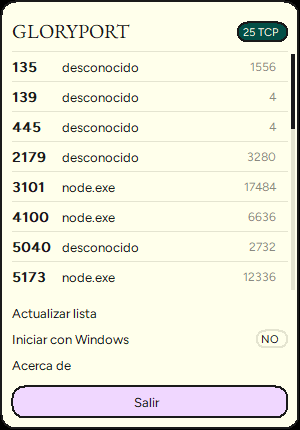
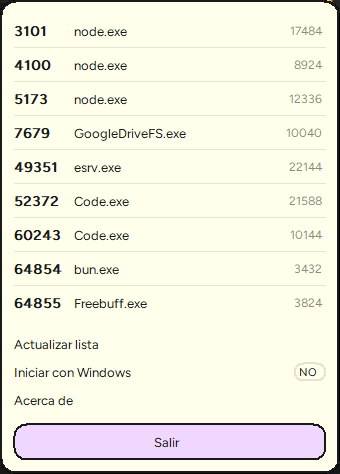
docs: bloque 128A-10 (popup amplio, filtro solo-aplicaciones, evidencia 21/21)

diff --git a/docs/arquitectura.md b/docs/arquitectura.md
@@ -1,6 +1,6 @@
 # GLORYPORT — Arquitectura y plan
 
-Fecha: 2026-08-12 · Estado: v1.1 implementada (popup Wispr Flow) · Fuente de decisión
+Fecha: 2026-08-12 · Estado: v1.2 implementada (popup amplio + filtro de aplicaciones) · Fuente de decisión
 canónica: este documento.
 
 ## 1. Contexto y objetivo
@@ -79,6 +79,8 @@ sequenceDiagram
     U->>T: clic derecho/izquierdo en icono
     T->>P: scan_listeners()
     P-->>T: Vec<PortInfo> ordenado (1 llamada Win32)
+    T->>P: attach_process_names() + solo_aplicaciones()
+    P-->>T: filas filtradas (aplicaciones de usuario)
     T->>M: show(puertos, autostart)
     M-->>T: Action elegida
     T->>K: kill_pid(pid) / toggle autostart / salir
@@ -98,10 +100,20 @@ rompe el clic físico (los mensajes `PostMessage` de prueba sí llegaban limpios
 el bug). Además, un clic real entrega `WM_LBUTTONDOWN`/`WM_LBUTTONUP` y un `NIN_SELECT`
 (`WM_USER`) que debe ignorarse; el clic derecho entrega `WM_CONTEXTMENU`.
 
-El popup **no usa captura de ratón**: si capturara, el segundo clic en el icono cerraba el
-popup por la captura y el shell reenviaba el `WM_LBUTTONUP` que lo reabría. Sin captura, el
-segundo clic llega al icono y `toggle_or_show_menu` lo cierra; el cierre por clic fuera se
-resuelve con `WM_ACTIVATE` (`WA_INACTIVE`), como un menú nativo.
+El popup **no usa captura de ratón** (si capturara, el segundo clic en el icono cerraba el
+popup por la captura y el shell reenviaba el `WM_LBUTTONUP` que lo reabría). El cierre por
+clic fuera se resuelve con `WM_ACTIVATE` (`WA_INACTIVE`), como un menú nativo.
+
+### Carrera del segundo clic (cerrar → reabrir)
+
+Un clic en el icono mientras el popup está abierto genera dos eventos: el *DOWN* sobre la
+bandeja desactiva el popup (`WM_ACTIVATE` → cierre) y el *UP* posterior llega al callback de
+bandeja (`WM_APP_TRAY`) cuando el popup ya está cerrado, reabriéndolo al instante (verificado
+en smoke: el HWND del popup cambiaba en la misma posición). El fix es una **ventana de
+supresión** de 250 ms: `popup::record_close()` registra la hora del último cierre y
+`toggle_or_show_menu()` consume el clic de bandeja que llega justo después de un cierre
+reciente en vez de reabrir. No afecta a "Actualizar lista", que reabre el popup por la vía
+interna (`show_menu`) y no por un clic de bandeja.
 
 Si Explorer se reinicia, el shell envía `TaskbarCreated` (mensaje registrado con
 `RegisterWindowMessageW`); el tray vuelve a llamar `Shell_NotifyIconW(NIM_ADD)` con la
@@ -115,6 +127,7 @@ pub struct PortInfo {
     pub pid: u32,           // PID del proceso dueño
     pub address: String,    // "0.0.0.0", "127.0.0.1", "[::1]"
     pub process_name: String, // nombre base del ejecutable, con caché TTL
+    pub process_path: Option<String>, // ruta completa del ejecutable (None: sin permiso/muerto)
 }
 ```
 
@@ -123,15 +136,34 @@ Reglas:
 - Se deduplica por `(port, pid)`: si un mismo proceso escucha en IPv4 e IPv6, aparece una
   sola fila.
 - Orden: puerto ascendente; estable para el usuario.
-- Límite de visibilidad en menú: 60 entradas; si hay más, se indica con un item informativo.
-- PID 0/4 (System) se listan pero su kill devuelve error controlado (permisos).
+- Límite de visibilidad en menú: 60 entradas (máx. 9 filas visibles, scroll de rueda).
+- La ruta se resuelve con `QueryFullProcessImageNameW` (permisos mínimos
+  `PROCESS_QUERY_LIMITED_INFORMATION`); una sola apertura del proceso devuelve nombre y ruta.
+
+### Filtro "solo aplicaciones" (128A-10)
+
+El popup y `list` aplican `ports::solo_aplicaciones()`: se muestra una fila solo si
+`puerto >= 1024` **y** la ruta resuelta cae **fuera** de `C:\Windows` (comparación
+case-insensitive contra `SystemRoot`). Consecuencias:
+
+- Los servicios del sistema (PID 0/4, `svchost`, `lsass`, `TermService`, etc.) y los
+  puertos comunes (< 1024) no aparecen en el popup: no tienen sentido como objetivo de kill.
+- Los procesos muertos entre el escaneo y la consulta, o sin permiso de lectura (otro
+  usuario/SYSTEM), tienen `process_path = None` y también quedan ocultos: es la eliminación
+  del "desconocido" del popup.
+- `gloryport list --incluir-sistema` desactiva el filtro (ver todo, incluidos los no
+  resueltos como "desconocido").
+
+El criterio es "aplicaciones de usuario" y no "solo la carpeta `area-trabajo`": los binarios
+de desarrollo (`node.exe`, `bun.exe`) viven en `Program Files` y un filtro estricto por
+carpeta ocultaría los servidores de los proyectos.
 
 ## 6. Estrategia de recursos
 
 | Recurso | Estrategia |
 |---|---|
 | CPU | Sin timers. Escaneo solo bajo demanda (apertura de menú o CLI). |
-| RAM | Una sola tabla escaneada; caché de nombres con TTL 10 s y tope de 512 entradas. |
+| RAM | Una sola tabla escaneada; caché de nombres+ruta con TTL 10 s y tope de 512 entradas. |
 | Procesos hijos | Cero: todas las operaciones vía API Win32. |
 | Arranque | Mutex de instancia única + registro de clase + `Shell_NotifyIcon`; sin red. |
 | Disco | El binario es autocontenido (icono y fuentes embebidas). |
@@ -171,14 +203,15 @@ Objetivos medibles (v1, verificados en §10):
 
 1. **Unitarias**: formateo de dirección IP (v4/v6), decodificación de puerto (network byte
    order), dedupe/orden, layout del popup (altura, filas visibles, scroll, hit-test),
-   construcción de etiquetas, parseo de args CLI.
+   construcción de etiquetas, parseo de args CLI, filtro `solo_aplicaciones`, supresión de
+   reapertura del segundo clic.
 2. **Integración E2E** (en `tests/`): el binario auxiliar `gloryport-test-helper` ocupa un
    puerto real; se verifica que `list` lo muestra y que `kill` lo libera (el proceso termina
    y el puerto queda libre).
-3. **Smoke de bandeja**: arrancar `gloryport tray`, verificar ventana oculta creada,
-   proceso vivo, segunda instancia que sale sola, y cierre limpio. Con un clic físico real
-   (`SendInput` con coordenadas absolutas sobre el icono) el popup abre en < 50 ms, se
-   mantiene estable y el segundo clic lo cierra sin reabrir.
+3. **Smoke de bandeja** (`tools/smoke-tray.ps1`): arrancar `gloryport tray`, encontrar el
+   icono por UIA, clic físico real (`SendInput` con coordenadas absolutas sobre el icono),
+   verificar popup visible, capturar PNG y confirmar que el segundo clic lo cierra sin
+   reabrir (sonda HWND/rect antes y después para distinguir cierre de reapertura).
 4. **Gate**: `cargo fmt --check`, `cargo clippy --all-targets -- -D warnings`, `cargo test`,
    build release, ejecutar el binario release para `list`.
 
@@ -192,6 +225,7 @@ Objetivos medibles (v1, verificados en §10):
 | P3 | Calidad: tests, clippy, E2E real, smoke tray, release | Hecho |
 | P4 | Cierre: docs, roadmap, completados, commit final | Hecho |
 | P7 | Popup Wispr Flow (GDI, fuentes embebidas) + fix clic físico del icono | Hecho |
+| P8 | Popup amplio sin título/contador + filtro solo-aplicaciones + fix carrera del 2.º clic | Hecho |
 | P5 (futuro) | Refresco automático configurable, puertos vigilados, PID→línea de comando | Pendiente (roadmap) |
 | P6 (futuro) | Instalador ligero / firma de código, actualización | Pendiente (roadmap) |
 
@@ -199,9 +233,11 @@ Objetivos medibles (v1, verificados en §10):
 
 - `gloryport tray`: icono en bandeja, menú con puertos reales, kill con notificación,
   auto-inicio verificable, single-instance, cierre limpio.
-- Popup Wispr Flow: el clic físico abre el popup estilizado en el cursor (< 50 ms), se
-  mantiene estable sin interacción y el segundo clic o un clic fuera lo cierra.
-- `gloryport list`: tabla correcta (puerto, dirección, PID, proceso) y `--json`.
+- Popup Wispr Flow: el clic físico abre el popup estilizado en el cursor (340×474, sin
+  cabecera ni contador), se mantiene estable sin interacción y el segundo clic o un clic
+  fuera lo cierra sin reabrir.
+- `gloryport list`: tabla correcta (puerto, dirección, PID, proceso), `--json` y
+  `--incluir-sistema` para ver servicios del sistema.
 - `gloryport kill <puerto>`: termina el/los proceso(s) y reporta resultado con exit code.
 - Gate verde (fmt, clippy `-D warnings`, tests unit + E2E) y smoke de bandeja aprobado.
 - Documentación (este archivo, README, roadmap, plan) coherente con la implementación.

diff --git a/README.md b/README.md
@@ -17,12 +17,15 @@ embebidas), compacto y pintado con GDI:
 ## Características
 
 - Bandeja del sistema con popup estilizado de puertos en escucha (puerto, proceso, PID),
-  ordenado y deduplicado (IPv4/IPv6 del mismo proceso = una fila).
+  ordenado y deduplicado (IPv4/IPv6 del mismo proceso = una fila), con aire generoso en el
+  layout y **solo aplicaciones de usuario**: los puertos/servicios del sistema (p. ej. el
+  PID 4, `C:\Windows`, puertos < 1024) quedan ocultos para no ofrecer un kill inútil.
 - Kill con confirmación implícita: un clic termina el proceso y muestra notificación con el
   resultado (éxito o error con motivo real, p. ej. acceso denegado).
 - Auto-inicio opcional vía clave `Run` de HKCU (sin `reg.exe`).
 - Instancia única: una segunda copia notifica a la primera y sale sola.
-- CLI para scripting: `list` (tabla o JSON) y `kill <puerto>` con exit codes.
+- CLI para scripting: `list` (tabla o JSON, con `--incluir-sistema` para ver todo) y
+  `kill <puerto>` con exit codes.
 - Bajo consumo: sin refresco automático, ~0 % CPU en reposo, ~1,5–2,5 MB de RAM privada en
   bandeja (WorkingSet ~10–17 MB según el sistema), binario release de ~348 KB (0,34 MB).
 
@@ -49,16 +52,32 @@ gloryport          # o: gloryport tray
 ```
 
 Aparece el icono en la bandeja. Un clic abre el popup con la lista de puertos; cada fila
-muestra `puerto  proceso (PID)`. Un segundo clic en el icono (o un clic fuera del popup) lo
-cierra, como un menú nativo. El popup incluye:
+muestra `puerto  proceso (PID)`; solo aparecen aplicaciones de usuario (ver filtro abajo).
+Un segundo clic en el icono (o un clic fuera del popup) lo cierra, como un menú nativo. El
+popup incluye:
 
 - **Actualizar**: re-escanea la tabla TCP.
 - **Auto-inicio**: activa/desactiva el arranque con Windows (HKCU).
 - **Acerca de**: versión y stack.
 - **Salir**: cierre limpio (elimina icono, ventana y mutex).
 
-Si hay más de 60 puertos, el popup se desplaza con la rueda del ratón y muestra el total
-real en la insignia (`60+ TCP`).
+Si hay más de 60 puertos, el popup se desplaza con la rueda del ratón (máx. 9 filas
+visibles). No hay cabecera ni contador: el popup es compacto y se abre sobre el cursor.
+
+### Filtro de aplicaciones
+
+Por defecto el popup y `list` muestran solo **aplicaciones de usuario**: puerto ≥ 1024 y
+ejecutable resuelto fuera de `C:\Windows`. Los servicios del sistema (PID 0/4, `svchost`,
+`lsass`, etc.) no aparecen porque no deben cerrarse. Para ver todo en la CLI:
+
+```powershell
+gloryport list --incluir-sistema
+```
+
+El "desconocido" que aparecía antes en el popup eran procesos que murieron entre el escaneo
+y la consulta del nombre, o servicios del sistema sin acceso de lectura (p. ej. de otro
+usuario). Con `QueryFullProcessImageNameW` ahora se resuelve la ruta completa del ejecutable
+y, con el filtro aplicado, esos procesos ya no se muestran en el popup.
 
 > Nota: al invocar la CLI desde PowerShell, el binario usa subsistema gráfico (sin ventana
 > de consola al arrancar como app); si una salida se ve truncada por el host, usa `cmd /c`
@@ -68,6 +87,7 @@ real en la insignia (`60+ TCP`).
 
 ```powershell
 gloryport list                # tabla: puerto, dirección, PID, proceso
+gloryport list --incluir-sistema  # incluye servicios/puertos del sistema
 gloryport list --json         # mismo resultado en JSON (útil para scripting)
 gloryport kill 3000           # termina los procesos que escuchan en el puerto 3000
 gloryport kill 3000 --pid 1234  # filtra por PID (si hay varios dueños)
@@ -79,9 +99,9 @@ Ejemplo:
 
 ```text
 PUERTO  DIRECCIÓN             PID      PROCESO
-135     0.0.0.0               1556     desconocido
-445     0.0.0.0               4        desconocido
-3000     127.0.0.1            1234     node
+3101    127.0.0.1             17484    node.exe
+5173    [::1]                 12336    node.exe
+7679    [::1]                 10040    GoogleDriveFS.exe
 ```
 
 Exit codes: `0` éxito, `1` error de ejecución (p. ej. puerto libre o acceso denegado),
@@ -94,24 +114,27 @@ Exit codes: `0` éxito, `1` error de ejecución (p. ej. puerto libre o acceso de
 - [roadmap.md](roadmap.md) — cola operativa y fases futuras.
 - [AGENTS.md](AGENTS.md) — contrato del proyecto y gate de calidad.
 
-## Calidad verificada (v1.1)
+## Calidad verificada
 
 | Chequeo | Resultado |
 |---|---|
-| `cargo test` | 20/20 OK (17 unit + 3 E2E con puerto real) |
+| `cargo test` | 21/21 OK (18 unit + 3 E2E con puerto real) |
 | `cargo clippy --all-targets -- -D warnings` | OK |
 | `cargo fmt --check` | OK |
-| Smoke bandeja | Icono en bandeja; clic físico abre el popup en ~25 ms, estable, 2.º clic cierra |
+| Smoke bandeja | Icono en bandeja; clic físico abre el popup 340×474 en < 130 ms, estable, 2.º clic cierra sin reabrir |
 | RAM en bandeja | WorkingSet ~10 MB / privada ~1,5 MB, 4 hilos |
-| `gloryport list` (release) | ~44 ms, 26 filas en máquina de prueba |
-| Binario release | 348.160 bytes (~340 KB), autocontenido (icono + fuentes) |
+| `gloryport list` (release) | instantáneo con el filtro de aplicaciones |
+| Binario release | 350.208 bytes (~342 KB), autocontenido (icono + fuentes) |
 
 ## Límites conocidos
 
 - Solo TCP (IPv4 + IPv6) en escucha; no cubre UDP ni conexiones establecidas.
 - Sin elevación: un proceso protegido (p. ej. SYSTEM) reporta el error real en lugar de
   pedir permisos de administrador.
-- Los nombres de proceso no resolubles se muestran como "desconocido" (caché TTL 10 s).
+- En el popup solo se ofrecen aplicaciones de usuario; los servicios del sistema quedan
+  fuera por diseño. En `list --incluir-sistema`, un proceso muerto entre el escaneo y la
+  consulta, o sin permiso de lectura (servicios de otro usuario/SYSTEM), aparece como
+  "desconocido" con su ruta vacía (caché TTL 10 s).
 
 ## Hoja de ruta futura
 

diff --git a/Agente/completados/tareas-2026-08-12.md b/Agente/completados/tareas-2026-08-12.md
@@ -106,3 +106,60 @@ roadmap `128A-8` (iconos fantasma tras cierres forzados).
 
 **Pendientes reales**: `128A-8` — mitigación de iconos fantasma en la bandeja; validación
 del popup en uso diario (DPI 125/150 %, alto contraste).
+
+## 128A-10 — Popup más espacioso sin título/contador + filtro solo-aplicaciones
+
+**Qué se hizo**: el popup de bandeja dejó de ser compacto: ahora mide 340×474 px con filas
+de 34 px (antes 300 px / 30 px), más aire en paddings, hasta 9 filas visibles y **sin
+cabecera ni insignia de contador**. Se eliminó el misterio de "desconocido": cada proceso se
+resuelve con `QueryFullProcessImageNameW` (ruta completa del ejecutable) y el popup aplica un
+filtro **solo-aplicaciones** (puerto ≥ 1024 y ejecutable fuera de `C:\Windows`), de modo que
+los servicios del sistema y los procesos sin nombre resoluble ya no aparecen. Se corrigió
+además la carrera por la que el segundo clic cerraba el popup y lo reabría al instante.
+
+**Archivos**:
+
+- `src/popup.rs` — layout amplio (340×474), sin cabecera/insignia, PID con elipsis,
+  `record_close()`/`closed_recently()` para suprimir la reapertura del 2.º clic + test.
+- `src/ports.rs` — `PortInfo.process_path`, caché de nombre+ruta, `solo_aplicaciones()` +
+  test; `list --incluir-sistema`.
+- `src/process.rs` — `resolve_process_path` con `PROCESS_QUERY_LIMITED_INFORMATION`; se
+  retira `resolve_process_name` (dead code).
+- `src/tray.rs` — supresión de 250 ms en `toggle_or_show_menu` (carrera cerrar→reabrir).
+- `src/cli.rs` — `list` filtra aplicaciones por defecto; `--incluir-sistema` para ver todo.
+- `tools/smoke-tray.ps1` (nuevo) — smoke reproducible con `SendInput` + UIA + captura PNG +
+  sonda HWND/rect para distinguir cierre de reapertura.
+- `assets/popup.png`, `README.md`, `docs/arquitectura.md`, `AGENTS.md`.
+
+**Evidencia / gate** (todo verde):
+
+| Chequeo | Resultado |
+|---|---|
+| `cargo fmt --check` | OK |
+| `cargo clippy --all-targets -- -D warnings` | OK |
+| `cargo test` | 21/21 OK (18 unit —incluye filtro y supresión— + 3 E2E) |
+| `cargo build --release` | OK, 350.208 bytes |
+| Smoke físico (release) | icono UIA → popup 340×474 visible en < 130 ms → captura PNG → 2.º clic cierra sin reabrir (HWND idéntico eliminado, sin reemplazo) |
+| `gloryport list` (release) | solo aplicaciones: node/bun/Code/GoogleDriveFS/esrv/Freebuff; `--incluir-sistema` añade 135/139/445/5040/5432/PID 4, etc. |
+
+**Decisiones / gotchas**:
+
+- El filtro es "aplicaciones de usuario" (puerto ≥ 1024 + ruta fuera de `C:\Windows`), no
+  "solo la carpeta `area-trabajo`": `node.exe`/`bun.exe` viven en `Program Files` y un
+  filtro por carpeta ocultaría los servidores de los proyectos.
+- "Desconocido" era un proceso muerto entre el escaneo y la consulta del nombre, o un
+  servicio sin acceso de lectura (SYSTEM/otro usuario). Con la ruta resuelta y el filtro
+  aplicado no aparecen en el popup; en `list --incluir-sistema` siguen como "desconocido".
+- Carrera del 2.º clic (verificada con sonda HWND): el DOWN sobre la bandeja desactiva el
+  popup (cierre por `WM_ACTIVATE`) y el UP posterior llega al callback de bandeja cuando el
+  popup ya está cerrado, reabriéndolo con otro HWND en la misma posición. Fix: ventana de
+  supresión de 250 ms desde el último cierre; "Actualizar lista" no se ve afectado (reabre
+  por vía interna, no por clic de bandeja).
+- `tools/smoke-tray.ps1` debe ser ASCII puro: PowerShell 5.1 lee el archivo como ANSI y un
+  carácter UTF-8 (p. ej. "—" u "ó") rompe el parseo o produce mojibake.
+
+**Prevención / Sentinel**: no aplica gate declarado en el proyecto.
+
+**Pendientes reales**: validación del popup en uso diario; `128A-9` reduce a declarar
+`rust-version` en `Cargo.toml` (la elipsis del PID quedó resuelta en este bloque); fases
+P5/P6 del roadmap.

diff --git a/AGENTS.md b/AGENTS.md
@@ -37,8 +37,10 @@ bandeja, smoke con clic físico sobre el icono). Un commit solo con gate verde.
 
 ## Estructura
 
-- `src/ports.rs` — escáner `GetExtendedTcpTable` + resolución de nombres de proceso.
-- `src/process.rs` — terminación de procesos (`OpenProcess`/`TerminateProcess`).
+- `src/ports.rs` — escáner `GetExtendedTcpTable` + resolución de nombre/ruta de proceso +
+  filtro `solo_aplicaciones` (puerto ≥ 1024 y ejecutable fuera de `C:\Windows`).
+- `src/process.rs` — ruta del ejecutable (`QueryFullProcessImageNameW`) y terminación de
+  procesos (`OpenProcess`/`TerminateProcess`).
 - `src/tray.rs` — bandeja del sistema, eventos (clic/`TaskbarCreated`), notificaciones,
   single-instance.
 - `src/popup.rs` — popup Wispr Flow pintado con GDI (layout, scroll, hit-test, acción).
@@ -47,4 +49,6 @@ bandeja, smoke con clic físico sobre el icono). Un commit solo con gate verde.
 - `src/icon.rs` — icono embebido (ICO → `HICON`).
 - `src/cli.rs` — modos `list`, `kill`, `tray`, `--version`.
 - `tools/make-fonts.py` — genera los TTFs embebidos desde las variables oficiales.
+- `tools/smoke-tray.ps1` — smoke de bandeja con clic físico (`SendInput`), captura PNG y
+  verificación de cierre sin reapertura.
 - `docs/arquitectura.md` — decisión de diseño y plan.

diff --git a/roadmap.md b/roadmap.md
@@ -10,6 +10,8 @@ dueño desde la bandeja del sistema. Rust nativo, un binario, sin runtime. Fuent
 
 - **Validar v1 en uso real**: correr `gloryport tray` durante varios días, matar puertos en
   proyectos diarios y registrar cualquier fricción (faltan PIDs, permisos, notificaciones).
+- **`128A-9` (rápida)** — declarar `rust-version` en `Cargo.toml` (el código usa
+  `is_none_or`, MSRV real 1.82+; la elipsis del PID ya quedó resuelta en 128A-10).
 - **P5 — Puertos vigilados**: avisar por notificación cuando un puerto configurado aparece o
   desaparece de la escucha (sin polling: solo al abrir el menú o en CLI `watch`).
 
@@ -24,9 +26,6 @@ dueño desde la bandeja del sistema. Rust nativo, un binario, sin runtime. Fuent
    `CreateMutexW`/`FindWindowW` o reclamar cuando no exista ventana).
 6. `128A-8` — Mitigación de iconos fantasma en la bandeja tras cierres forzados del
    proceso (refresh del icono al arrancar y/o limpieza al detectar ventana muerta).
-7. `128A-9` — Observaciones del review de 128A-7: elipsis en la caja del PID del popup
-   (un PID largo puede recortarse visualmente) y declarar `rust-version` en `Cargo.toml`
-   (el código usa `is_none_or`, MSRV real 1.82+).
 
 ## Planes activos
 
